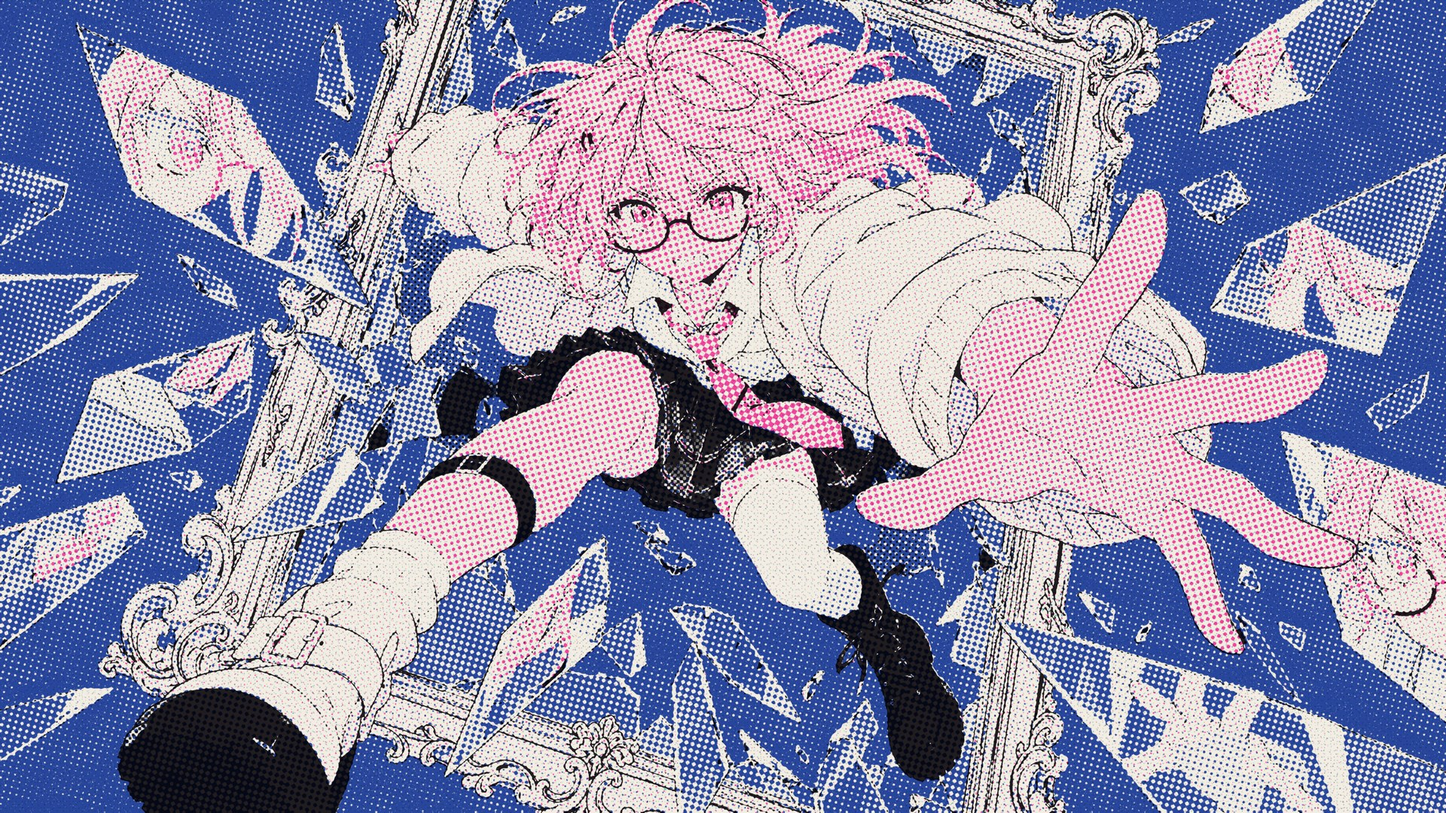
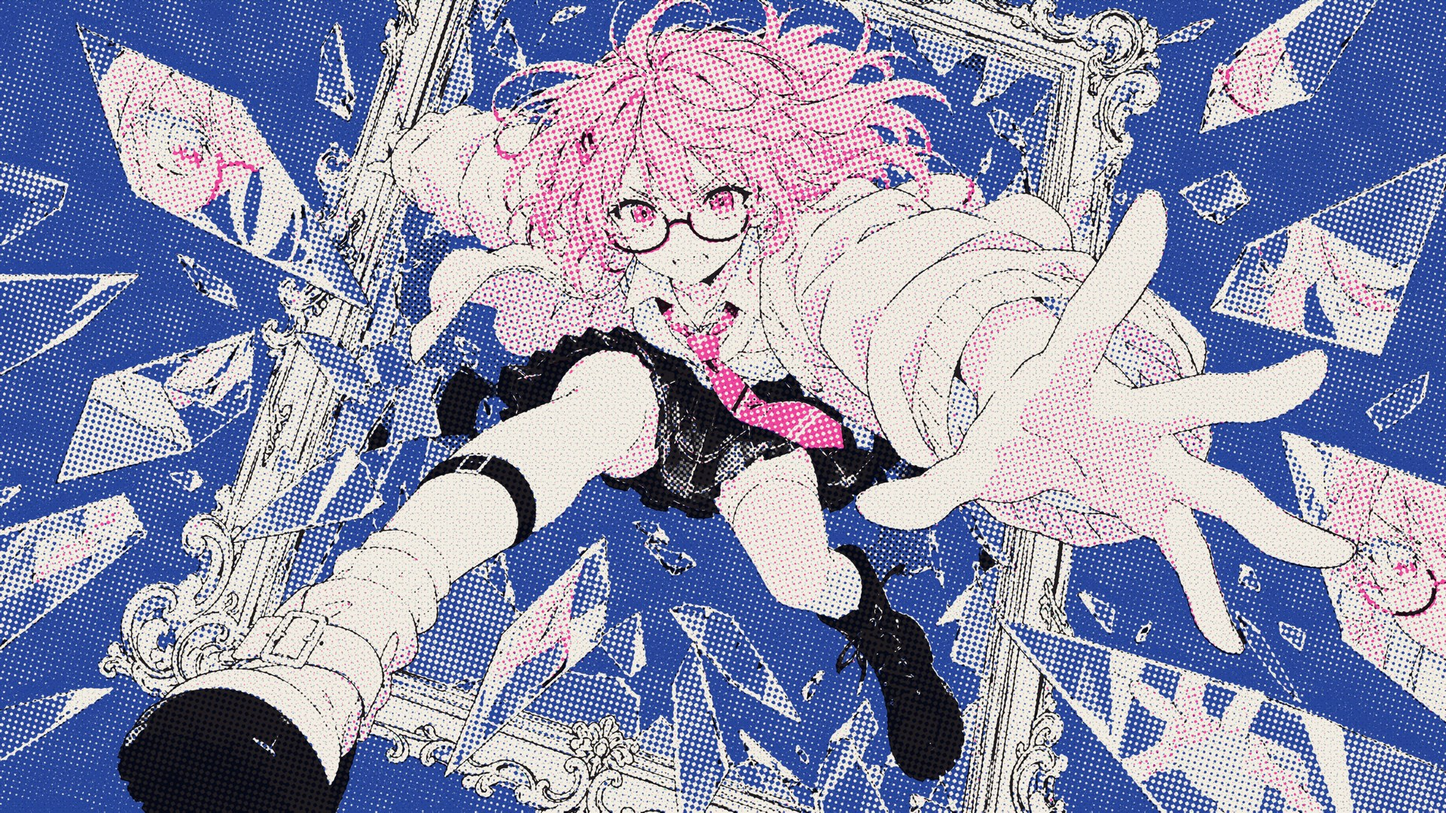
Keep skin on paper in the riso separation
The pink plate now only takes the pink hair and red accents; skin
tones stay paper white with light pink in their shadows, so the
characters no longer print as all-pink figures.

Claude-Session: https://claude.ai/code/session_01VDPcmCrhwYkjAungtMdLyF

diff --git a/mv/v4/tools/riso.py b/mv/v4/tools/riso.py
@@ -17,8 +17,12 @@ def separate(rgb):
     g = cv2.cvtColor(rgb, cv2.COLOR_RGB2GRAY).astype(np.float32) / 255
     bh = cv2.morphologyEx(g, cv2.MORPH_BLACKHAT, cv2.getStructuringElement(cv2.MORPH_ELLIPSE, (13, 13)))
     black = np.maximum(black, np.clip((bh - 0.10) / 0.12, 0, 1) * np.clip((0.75 - g) / 0.3, 0, 1))
-    pinkw = np.maximum(hue_w(h, 335, 55), hue_w(h, 10, 28))
-    pink = np.clip(pinkw * np.clip((s - 0.08) * 2.1, 0, 1) * (0.35 + 0.65 * v), 0, 1)
+    # pink ink only for the pink hair and the red accents; skin stays paper with light pink in its shadows
+    hair = hue_w(h, 345, 28) * np.clip((s - 0.22) / 0.18, 0, 1)
+    red = hue_w(h, 355, 20) * np.clip((s - 0.5) / 0.2, 0, 1)
+    skin = ((h < 40) | (h > 345)) & (s > 0.04) & (s < 0.27) & (v > 0.7)
+    shade = np.where(skin, np.clip((0.95 - v) * 2.2, 0, 0.22), 0)
+    pink = np.clip(np.maximum(np.maximum(hair * (0.45 + 0.55 * v), red), shade), 0, 1)
     mint = np.clip(hue_w(h, 178, 32) * np.clip(s * 3.2, 0, 1), 0, 1)
     bluew = hue_w(h, 228, 42)
     neutral_shadow = np.clip((0.9 - v) / 0.55, 0, 1) * np.clip(1 - s * 2.2, 0, 1) * (1 - black)

diff --git a/mv/v4/README.md b/mv/v4/README.md
@@ -20,7 +20,8 @@
 - **换镜**：下一张画先透过纸显出来（透写台亮灯），然后上层纸从顶部翻走。新句子开始时纸张轻轻一顿。
 - **riso**：`tools/riso.py` 把 v3 的平涂画分色成四块印版。
   - 每块印版是独立的网点层（不同网角、墨量不均、纸白斑点）；
-  - 线稿走黑版。
+  - 线稿走黑版；
+  - 荧光粉只给粉色头发和红色小物（领带、发夹、眼镜）。皮肤留纸白，只在阴影处加一点淡粉。之前皮肤也被分进粉版，人物整个变成粉的，已修正，对比见 `riso_skin_fix.jpg`。
 - **渲染**：渲染时四块印版逐块正片叠底：
   - **套色错位**：每块印版的偏移跟着底鼓、军鼓和小节头跳动；
   - **镜头切换**：3:50 那一下错位最大；
